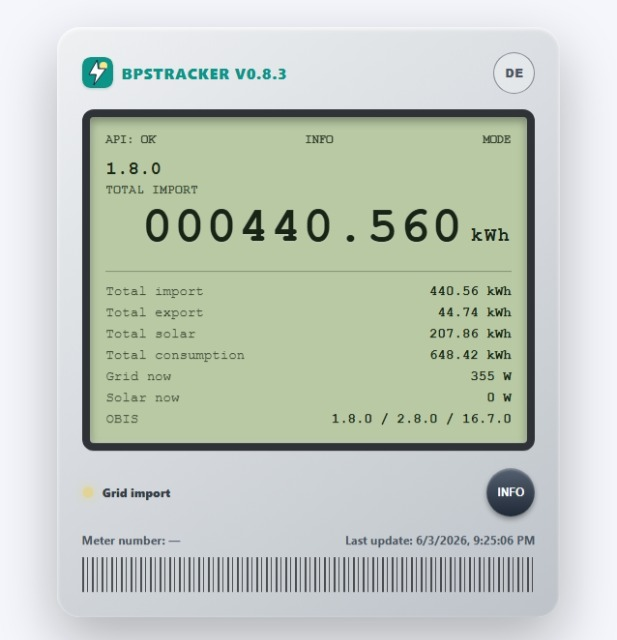
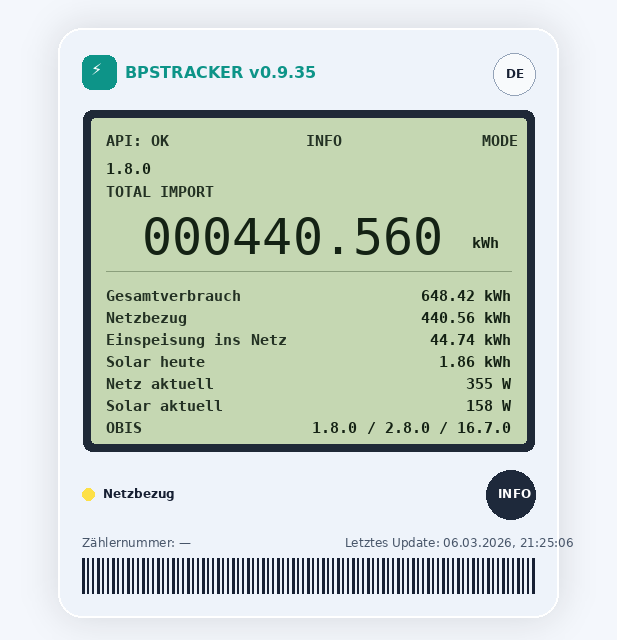
Release v0.9.35: refresh mobile dashboard view

diff --git a/frontend/src/styles.css b/frontend/src/styles.css
@@ -1640,3 +1640,76 @@ html[data-theme='dark'] .air-particle-size {
     font-size: 0.9rem;
   }
 }
+
+/* v0.9.35 mobile dashboard refresh: keep the mobile cards aligned with the current desktop dashboard styling. */
+@media (max-width: 720px) {
+  .dashboard-cards {
+    gap: 0.85rem;
+  }
+
+  .dashboard-cards > .metric > p,
+  .dashboard-cards .metric-grid-power .grid-power-values > p,
+  .dashboard-cards .battery-analysis > p,
+  .dashboard-device-measurements > .panel-head h2 {
+    font-size: 1rem;
+    line-height: 1.25;
+    margin-bottom: 0.55rem;
+  }
+
+  .daily-balance-list {
+    gap: 0.36rem;
+    margin-top: 0.55rem;
+  }
+
+  .daily-balance-list div {
+    justify-content: flex-start;
+    gap: 0.42rem;
+  }
+
+  .daily-balance-list > div > span {
+    flex: 0 0 auto;
+    max-width: 52%;
+    font-size: 0.98rem;
+  }
+
+  .daily-balance-list strong,
+  .daily-balance-total-row strong,
+  .daily-balance-list .cost-balance-value {
+    text-align: left;
+    font-size: 0.98rem;
+  }
+
+  .balance-value {
+    justify-content: flex-start;
+  }
+
+  .grid-power-value-list {
+    gap: 0.26rem 0.42rem;
+    margin-top: 0.42rem;
+  }
+
+  .grid-power-value-row span,
+  .grid-power-value-row strong {
+    font-size: 0.98rem;
+  }
+
+  .mini-share-row {
+    gap: 0.28rem 0.55rem;
+    margin-top: 0.48rem;
+  }
+}
+
+@media (max-width: 390px) {
+  .daily-balance-list > div > span {
+    max-width: 48%;
+    font-size: 0.92rem;
+  }
+
+  .daily-balance-list strong,
+  .daily-balance-total-row strong,
+  .daily-balance-list .cost-balance-value,
+  .grid-power-value-row span,
+  .grid-power-value-row strong {
+    font-size: 0.92rem;
+  }
+}

diff --git a/backend/app/main.py b/backend/app/main.py
@@ -252,7 +252,7 @@ async def lifespan(app: FastAPI):
 
 
 settings = get_settings()
-app = FastAPI(title=settings.app_name, version='0.9.34', lifespan=lifespan)
+app = FastAPI(title=settings.app_name, version='0.9.35', lifespan=lifespan)
 
 configured_origins = [origin.strip() for origin in settings.frontend_origin.split(',') if origin.strip()]
 loopback_hosts = {'localhost', '127.0.0.1', '::1', '0.0.0.0'}

diff --git a/README.md b/README.md
@@ -313,6 +313,10 @@ The backend remains private inside the Docker network.
 
 ![BPSTracker setup overview](docs/images/setup-overview.png)
 
+### Mobile view
+
+![BPSTracker mobile view](docs/images/mobile.png)
+
 
 ## Screens and UI
 
@@ -1404,10 +1408,10 @@ git pull
 bash ./deploy-images.sh
 ```
 
-`deploy-images.sh` asks for the script language and for the image tag (`v0.9.34` or `latest`). For unattended image deployments:
+`deploy-images.sh` asks for the script language and for the image tag (`v0.9.35` or `latest`). For unattended image deployments:
 
 ```bash
-bash ./deploy-images.sh --regular --tag v0.9.34 --language en
+bash ./deploy-images.sh --regular --tag v0.9.35 --language en
 bash ./deploy-images.sh --zero2w --latest --language de
 ```
 
@@ -1773,4 +1777,8 @@ v0.9.33 aligns the air sensor label/value presentation with the compact dashboar
 ### v0.9.34 compact air sensor values
 
 v0.9.34 makes the dashboard air data display more compact. Temperature and humidity now show only their icon and value, while particle values show the icon plus the numeric particle size (`10` or `2.5`) and the measured value. Full labels remain available through hover/tooltips and accessibility labels.
+
+### v0.9.35 mobile view refresh
+
+v0.9.35 refreshes the mobile dashboard presentation and the documentation mobile screenshot. Mobile dashboard cards now use the same current typography and compact value alignment as the desktop dashboard, including balance rows, cost rows, the current power card and responsive air sensor values.
 

diff --git a/deREADME.md b/deREADME.md
@@ -50,6 +50,10 @@ Das Projekt ist für den lokalen Betrieb im Heimnetz gedacht. Backend und Datenb
 
 ![BPSTracker setup overview](docs/images/setup-overview.png)
 
+### Mobile Ansicht
+
+![BPSTracker mobile view](docs/images/mobile.png)
+
 
 ---
 
@@ -759,10 +763,10 @@ Oder:
 bash ./deploy-images.sh
 ```
 
-`deploy-images.sh` fragt nach der Skriptsprache und nach dem Image-Tag (`v0.9.34` oder `latest`). Für unbeaufsichtigte Image-Deployments:
+`deploy-images.sh` fragt nach der Skriptsprache und nach dem Image-Tag (`v0.9.35` oder `latest`). Für unbeaufsichtigte Image-Deployments:
 
 ```bash
-bash ./deploy-images.sh --regular --tag v0.9.34 --language de
+bash ./deploy-images.sh --regular --tag v0.9.35 --language de
 bash ./deploy-images.sh --zero2w --latest --language en
 ```
 
@@ -1051,4 +1055,8 @@ v0.9.33 gleicht die Beschriftungs-/Wertdarstellung des Luftdatensensors an die k
 ### v0.9.34 Kompakte Luftdatenwerte
 
 v0.9.34 stellt die Luftdatenanzeige im Dashboard kompakter dar. Temperatur und Luftfeuchte zeigen nur noch Symbol und Wert; Feinstaubwerte zeigen Symbol, die numerische Partikelgröße (`10` oder `2.5`) und den Messwert. Die vollständigen Bezeichnungen bleiben über Hover/Tooltips und Accessibility-Labels erhalten.
+
+### v0.9.35 Mobile Ansicht aktualisiert
+
+v0.9.35 aktualisiert die mobile Dashboard-Darstellung und den mobilen Doku-Screenshot. Mobile Dashboard-Kacheln nutzen jetzt dieselbe aktuelle Typografie und kompakte Werteausrichtung wie das Desktop-Dashboard, inklusive Bilanzzeilen, Kostenzeilen, aktueller Leistungskachel und responsiver Luftsensorwerte.
 

diff --git a/frontend/public/help/README.md b/frontend/public/help/README.md
@@ -313,6 +313,10 @@ The backend remains private inside the Docker network.
 
 ![BPSTracker setup overview](docs/images/setup-overview.png)
 
+### Mobile view
+
+![BPSTracker mobile view](docs/images/mobile.png)
+
 
 ## Screens and UI
 
@@ -1404,10 +1408,10 @@ git pull
 bash ./deploy-images.sh
 ```
 
-`deploy-images.sh` asks for the script language and for the image tag (`v0.9.34` or `latest`). For unattended image deployments:
+`deploy-images.sh` asks for the script language and for the image tag (`v0.9.35` or `latest`). For unattended image deployments:
 
 ```bash
-bash ./deploy-images.sh --regular --tag v0.9.34 --language en
+bash ./deploy-images.sh --regular --tag v0.9.35 --language en
 bash ./deploy-images.sh --zero2w --latest --language de
 ```
 
@@ -1773,4 +1777,8 @@ v0.9.33 aligns the air sensor label/value presentation with the compact dashboar
 ### v0.9.34 compact air sensor values
 
 v0.9.34 makes the dashboard air data display more compact. Temperature and humidity now show only their icon and value, while particle values show the icon plus the numeric particle size (`10` or `2.5`) and the measured value. Full labels remain available through hover/tooltips and accessibility labels.
+
+### v0.9.35 mobile view refresh
+
+v0.9.35 refreshes the mobile dashboard presentation and the documentation mobile screenshot. Mobile dashboard cards now use the same current typography and compact value alignment as the desktop dashboard, including balance rows, cost rows, the current power card and responsive air sensor values.
 

diff --git a/frontend/public/help/deREADME.md b/frontend/public/help/deREADME.md
@@ -50,6 +50,10 @@ Das Projekt ist für den lokalen Betrieb im Heimnetz gedacht. Backend und Datenb
 
 ![BPSTracker setup overview](docs/images/setup-overview.png)
 
+### Mobile Ansicht
+
+![BPSTracker mobile view](docs/images/mobile.png)
+
 
 ---
 
@@ -759,10 +763,10 @@ Oder:
 bash ./deploy-images.sh
 ```
 
-`deploy-images.sh` fragt nach der Skriptsprache und nach dem Image-Tag (`v0.9.34` oder `latest`). Für unbeaufsichtigte Image-Deployments:
+`deploy-images.sh` fragt nach der Skriptsprache und nach dem Image-Tag (`v0.9.35` oder `latest`). Für unbeaufsichtigte Image-Deployments:
 
 ```bash
-bash ./deploy-images.sh --regular --tag v0.9.34 --language de
+bash ./deploy-images.sh --regular --tag v0.9.35 --language de
 bash ./deploy-images.sh --zero2w --latest --language en
 ```
 
@@ -1051,4 +1055,8 @@ v0.9.33 gleicht die Beschriftungs-/Wertdarstellung des Luftdatensensors an die k
 ### v0.9.34 Kompakte Luftdatenwerte
 
 v0.9.34 stellt die Luftdatenanzeige im Dashboard kompakter dar. Temperatur und Luftfeuchte zeigen nur noch Symbol und Wert; Feinstaubwerte zeigen Symbol, die numerische Partikelgröße (`10` oder `2.5`) und den Messwert. Die vollständigen Bezeichnungen bleiben über Hover/Tooltips und Accessibility-Labels erhalten.
+
+### v0.9.35 Mobile Ansicht aktualisiert
+
+v0.9.35 aktualisiert die mobile Dashboard-Darstellung und den mobilen Doku-Screenshot. Mobile Dashboard-Kacheln nutzen jetzt dieselbe aktuelle Typografie und kompakte Werteausrichtung wie das Desktop-Dashboard, inklusive Bilanzzeilen, Kostenzeilen, aktueller Leistungskachel und responsiver Luftsensorwerte.
 